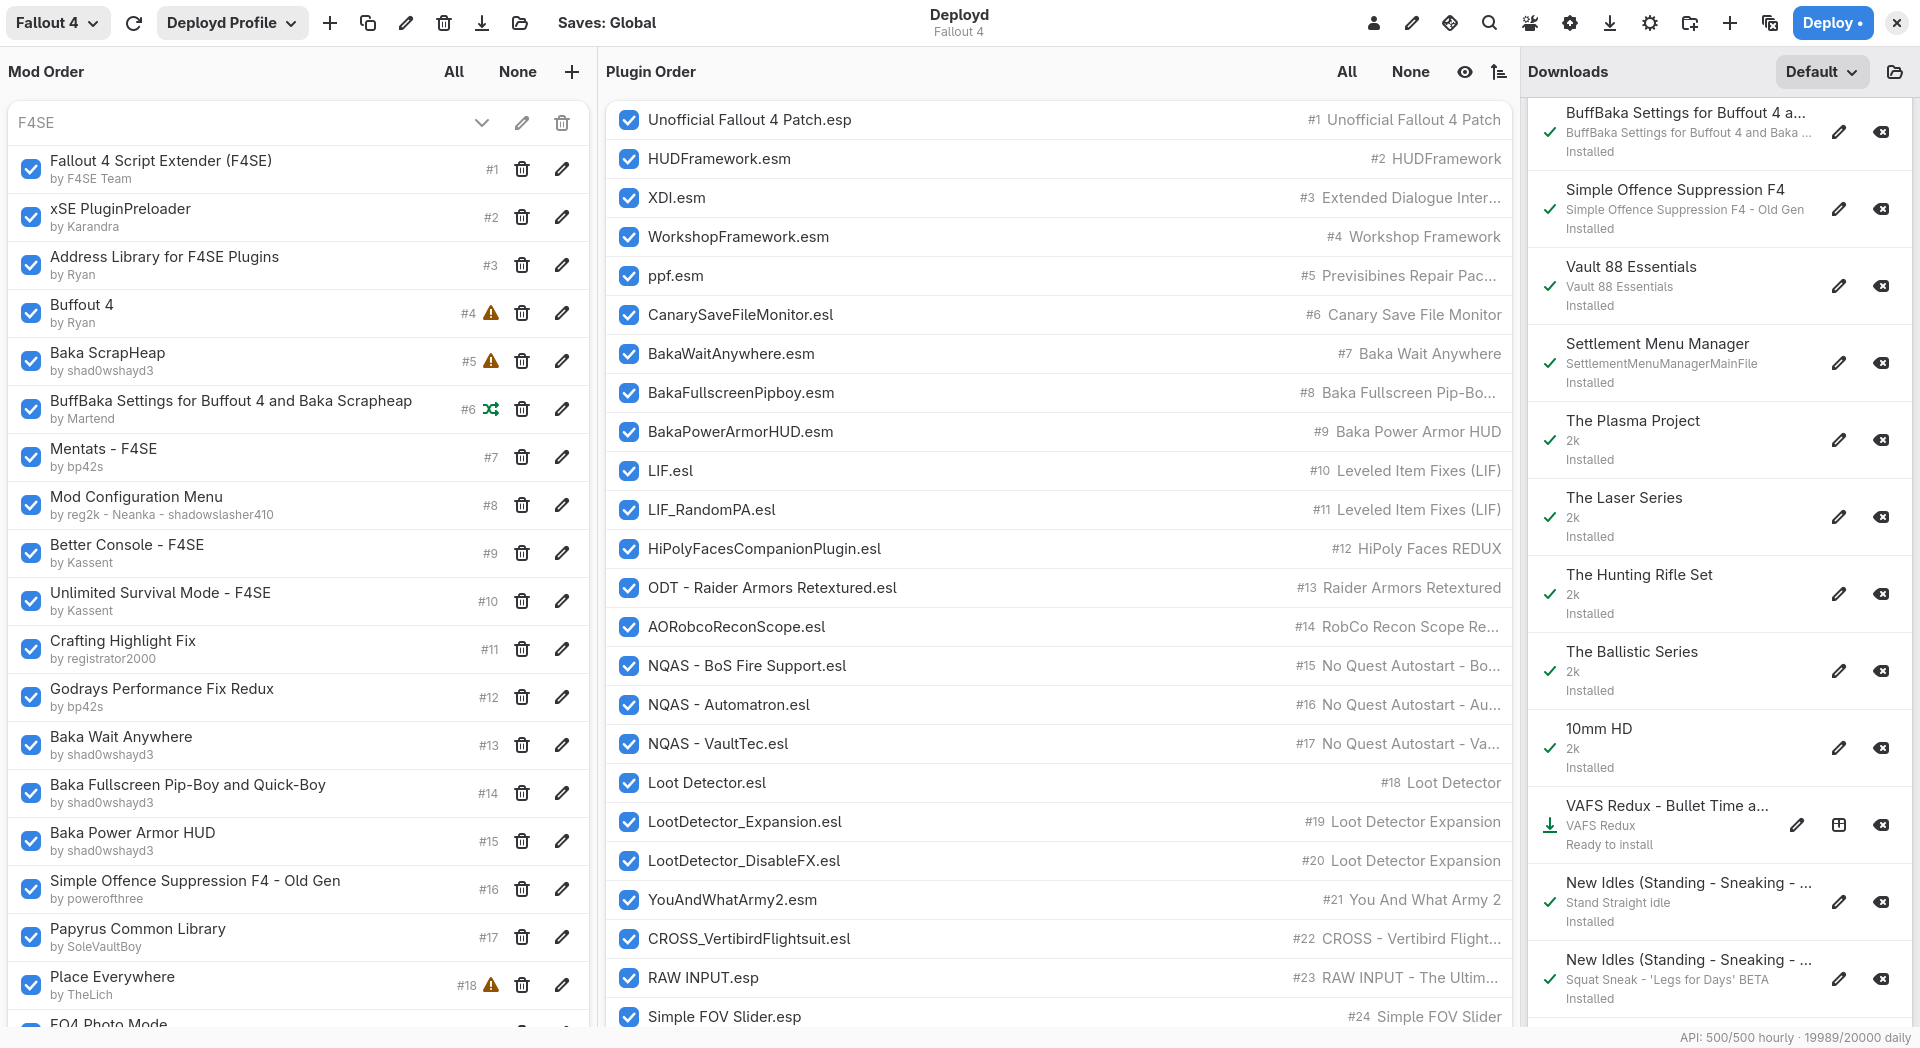
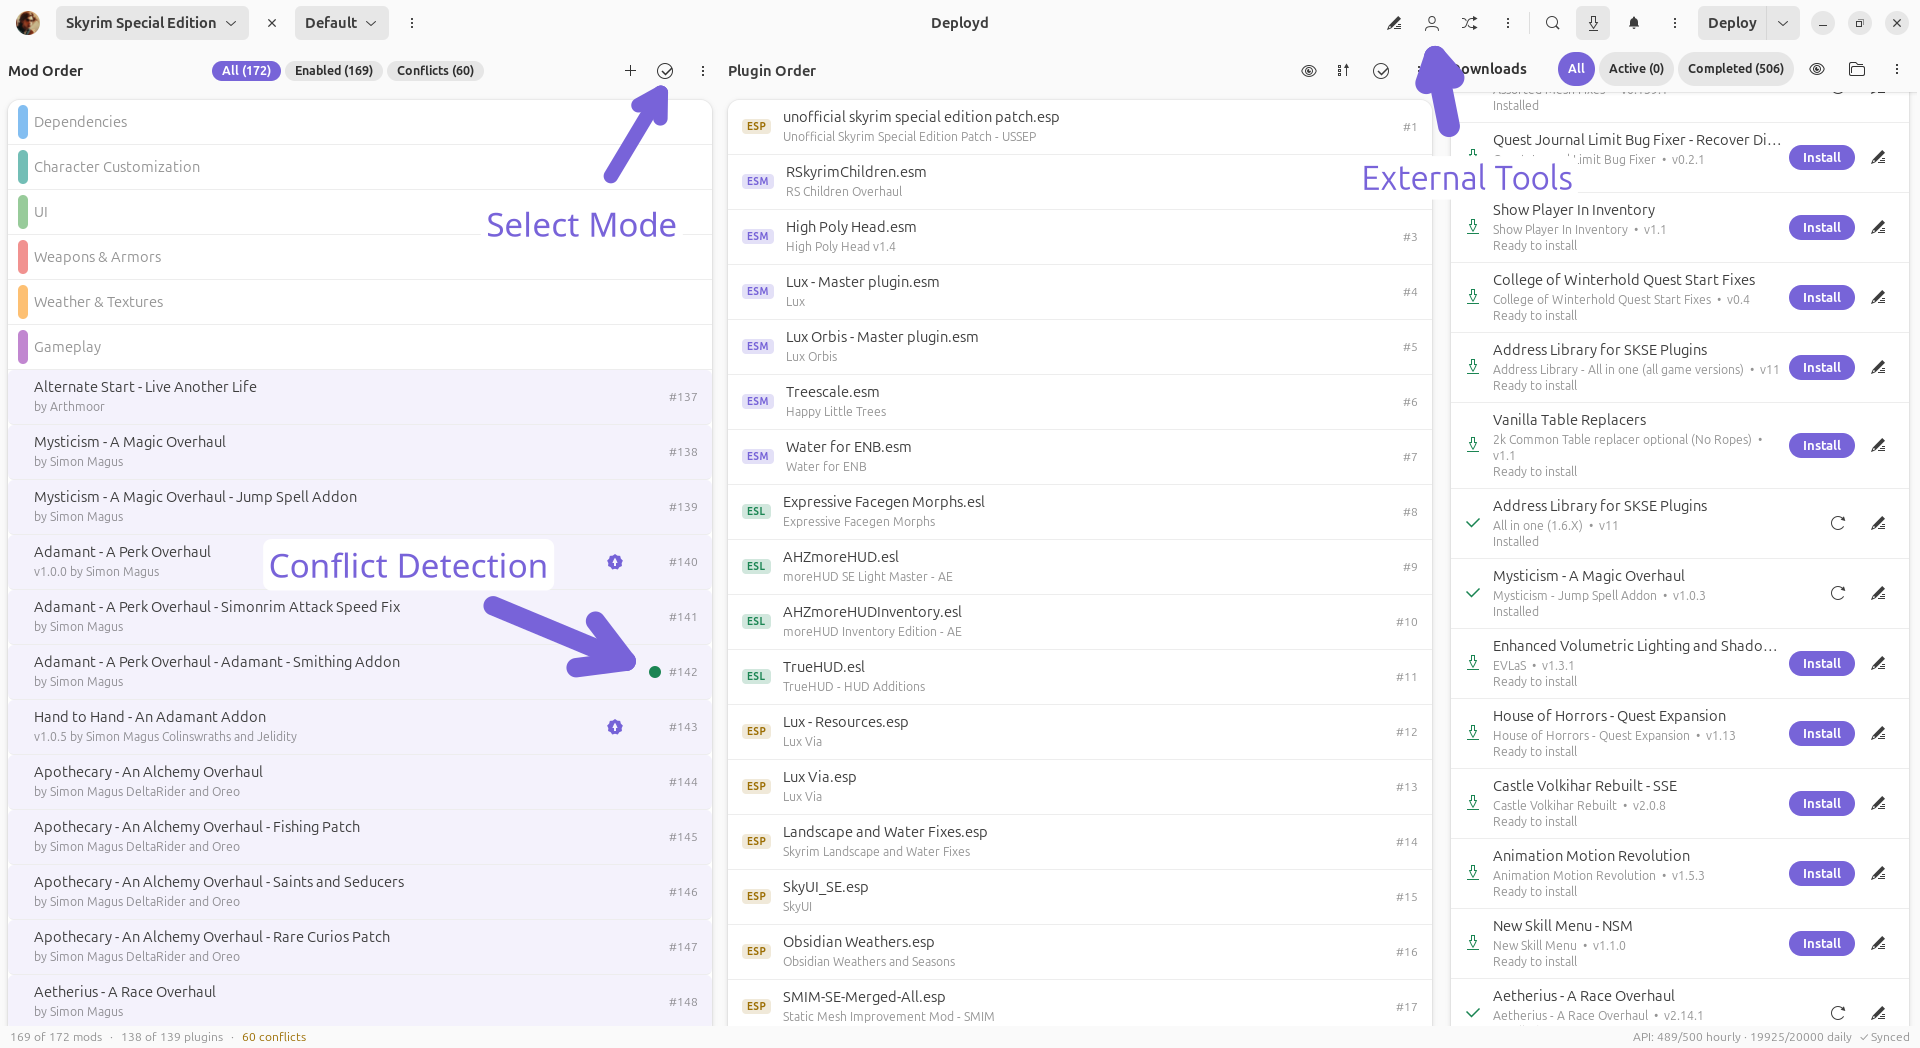
chore: update docs

diff --git a/README.md b/README.md
@@ -28,7 +28,7 @@ libadwaita, and Rust.
 - **Nexus Mods Integration** — SSO login, NXM deep links, and one-click update checking
 - **FOMOD Installer** — Full wizard with conditional steps, image previews, and DLC-aware auto-selection
 - **Mod Profiles** — Per-game profiles to switch between configurations instantly
-- **Plugin Load Order** — Drag-and-drop `.esp`/`.esm`/`.esl` management written to `plugins.txt`
+- **Plugin Load Order** — Select Mode reorder workflow for `.esp`/`.esm`/`.esl` management written to `plugins.txt`
 - **Conflict Detection** — Per-file visibility into which mods override each other, with a detailed Conflicts section in each mod's Properties dialog (The Witcher 1's Override/ files are matched by filename regardless of subfolder depth)
 - **Priority-Based Deployment** — Hardlink deployment; lower in the list wins conflicts
 - **Tool Launcher** — Run xEdit, LOOT, BodySlide and more through the package-managed Windows runtime
@@ -48,6 +48,8 @@ Deployd uses libadwaita throughout its primary workflows:
 
 - The main Mod Order and Plugin Order panels use adaptive libadwaita navigation, so wide windows
   show both panes side by side while narrow windows collapse cleanly.
+- Select Mode is the v2 reorder workflow for Mod Order and Plugin Order. Enter Select Mode before
+  selecting rows, dragging items, or changing load order.
 - Downloads, notifications, profile actions, deploy actions, snapshots, and Nexus account controls
   use GNOME-style rows, popovers, status pages, and toast feedback.
 - Install-related workflows, including FOMOD, Pre-install, Absorb External Changes, Mod Properties,
@@ -124,7 +126,8 @@ Open **Settings** (gear icon) and log in under **Nexus Mods**:
 Mods are deployed as **hardlinks** into the game's Data directory — originals stay safely in Deployd's cache.
 
 - Toggle individual mods on/off with the switch in each row
-- Drag rows to reorder; mods lower in the list win file conflicts
+- Enter **Select Mode** to reorder mods; in v2, Select Mode is the only way to modify load order
+- Drag selected rows to reorder; mods lower in the list win file conflicts
 - **Deploy** — applies your changes to the game folder
 - **Purge** — removes all Deployd-managed files (only tracked hardlinks; your game files are safe)
 
@@ -132,7 +135,8 @@ Mods are deployed as **hardlinks** into the game's Data directory — originals 
 
 For Bethesda games, manage plugins separately in the **Plugins** tab:
 
-- Drag-and-drop to set load order
+- Enter **Select Mode** to modify plugin load order
+- Drag selected plugins to set load order
 - Toggle plugins on/off individually
 - Load order is written to `plugins.txt` on deploy
 
